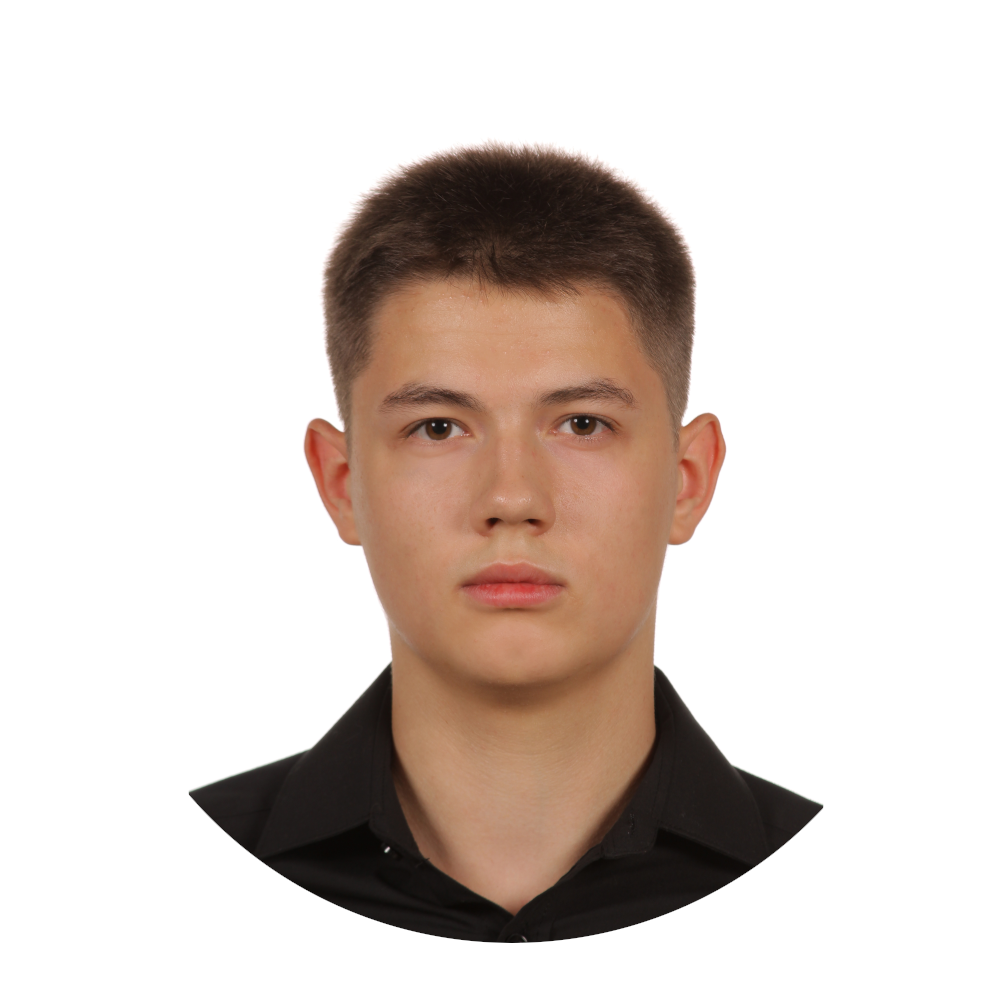
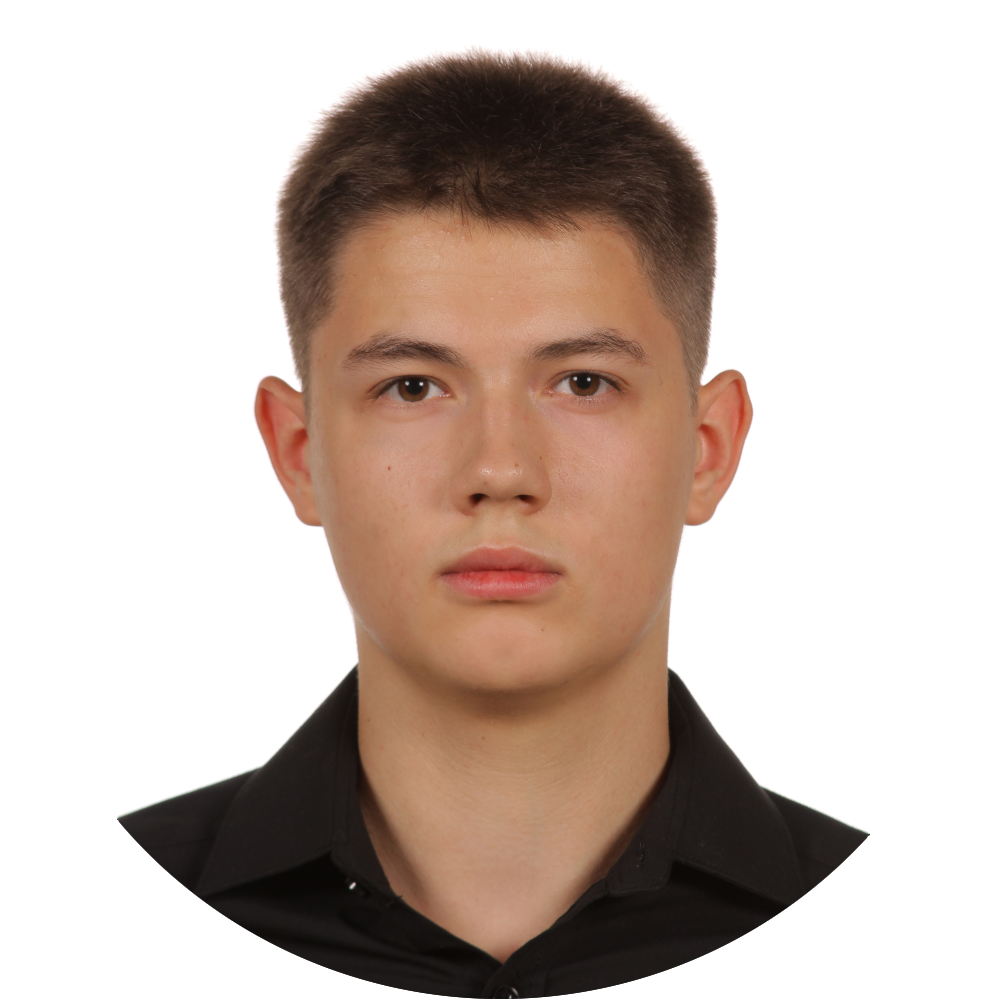
Home photo added

Changed region(s): [[0.124, 0.031, 0.868, 1.0], [0.744, 0.775, 0.806, 0.806]]

diff --git a/src/components/Home.js b/src/components/Home.js
@@ -2,10 +2,11 @@ import react, { useContext } from "react"
 import BackgroundImageFile from "../images/background.png"
 import { BackgroundImage } from "../components/styles/Background.styles"
 import { NavBar } from "../components/NavBar.js"
-import { HomeContent, HomeDeveloperStyle, HomeHelloNameStyle, HomeHelloStyle, HomeMainTextStyle, HomeNameStyle, HomeShortTextStyle } from "./styles/Home.styles.js"
+import { HomeContent, HomeDeveloperStyle, HomeHelloNameStyle, HomeHelloStyle, HomeMainTextStyle, HomeNameStyle, HomePhotoStyle, HomeShortTextStyle, HomeTextPhotoStyle } from "./styles/Home.styles.js"
 import { HomeButtonContactMe } from "./HomeButtonContactMe"
 import { LanguageContext } from "../App"
 import { Button, Fab } from "@mui/material"
+import Photo from "../images/photo.png"
 
 export function Home() {
     const { language, setLanguage } = useContext(LanguageContext)
@@ -14,16 +15,19 @@ export function Home() {
         <div>
             <HomeContent>
                 <NavBar />
-                <HomeMainTextStyle>
-                    <HomeHelloNameStyle>
-                        <HomeHelloStyle>{language === "en" ? "Hi, I'm " : "Cześć! Jestem "} <HomeNameStyle>Kamil Jach</HomeNameStyle></HomeHelloStyle>
-                    </HomeHelloNameStyle>
-                    <HomeDeveloperStyle>Software Developer</HomeDeveloperStyle>
-                    <HomeShortTextStyle>{language === "en" ?
-                        "I'm a frontend developer, currently learning backend. I’m very willing to complete your order." :
-                        "Jestem frontend developerem, uczącym się backendu. Bardzo chętnie zrealizuję twoje zlecenie."}</HomeShortTextStyle>
-                    <HomeButtonContactMe />
-                </HomeMainTextStyle>
+                <HomeTextPhotoStyle>
+                    <HomeMainTextStyle>
+                        <HomeHelloNameStyle>
+                            <HomeHelloStyle>{language === "en" ? "Hi, I'm " : "Cześć! Jestem "} <HomeNameStyle>Kamil Jach</HomeNameStyle></HomeHelloStyle>
+                        </HomeHelloNameStyle>
+                        <HomeDeveloperStyle>Software Developer</HomeDeveloperStyle>
+                        <HomeShortTextStyle>{language === "en" ?
+                            "I'm a frontend developer, currently learning backend. I’m very willing to complete your order." :
+                            "Jestem frontend developerem, uczącym się backendu. Bardzo chętnie zrealizuję twoje zlecenie."}</HomeShortTextStyle>
+                        <HomeButtonContactMe />
+                    </HomeMainTextStyle>
+                    <HomePhotoStyle src={Photo} alt="My photo" />
+                </HomeTextPhotoStyle>
             </HomeContent>
 
 

diff --git a/src/components/styles/Home.styles.js b/src/components/styles/Home.styles.js
@@ -67,3 +67,18 @@ export const HomeButtonContactStyle = styled.div`
     background-color: rgba(255, 255, 255, 0.07);
     font-size: 1.5rem;
 `
+
+export const HomePhotoStyle = styled.img`
+    width: 30rem;
+    height: 30rem;
+    margin-top: 14rem;
+    /* margin-right: 3.4rem; */
+    margin-right: 10rem;
+`
+
+export const HomeTextPhotoStyle = styled.div`
+    display: flex;
+    flex-direction: row;
+    justify-content: space-between;
+    /* align-items: center; */
+`

diff --git a/src/components/styles/NavBar.styles.js b/src/components/styles/NavBar.styles.js
@@ -35,7 +35,7 @@ export const NavBarLinksStyle = styled.div`
 `
 
 export const NavBarLinksElementStyle = styled.div`
-    margin-left: 3vw;
+    margin-left: 4rem;
 `
 
 export const NavBarLogosStyle = styled.div`
@@ -43,7 +43,7 @@ export const NavBarLogosStyle = styled.div`
 `
 
 export const NavBarLanguageStyle = styled.div`
-    margin-left: 3vw;
+    margin-left: 4rem;
 `
 export const LanguageToggleStyle = styled.img`
     width: 2.5rem;
